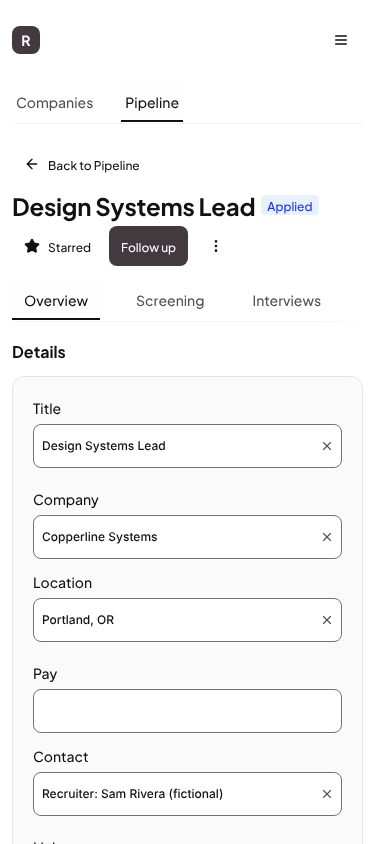
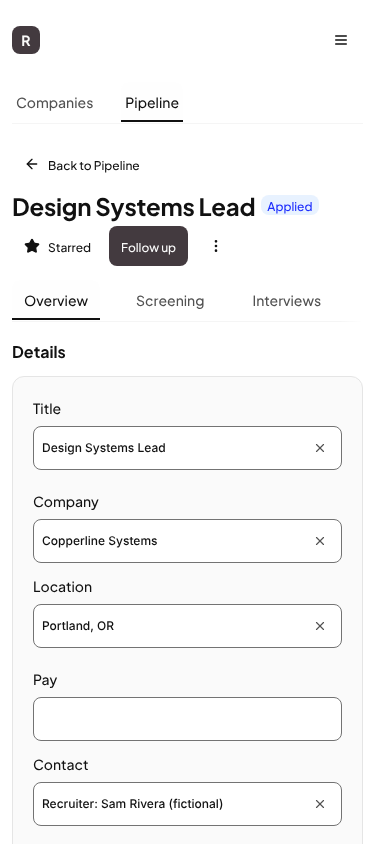
Case study: re-shoot on main 3e1b05b; Documents, retired stand-ins (#259)
Re-shot all 16 case-study PNGs and the six redesign after-JPGs on the merged
tree (HDS 0.26.2). 05-templates becomes 05-documents (the Documents editor),
and 06-account-menu shows the current Menu. The redesign doc now says
Documents, moves hds#652 and hds#654 into the shipped-in-0.26 sentence, lists
the EmptyState icon slot and Text weight (hds#825), and marks NavList merged
(hds#832).

Claude-Session: https://claude.ai/code/session_01HmxZvdUm7AT9okWzn27A9k

diff --git a/docs/redesign-2026.md b/docs/redesign-2026.md
@@ -35,11 +35,12 @@ store, sync, route or CSP changes in the polish pass. Verification is local; no 
 Living with round 1 showed that four tabs was one decision too many before any work started, and
 that Today and the Pipeline answered the same question ("what do I do next?") in two places.
 
-- Two tabs, **Companies** and **Pipeline**. Companies is home; Templates left the tab bar and opens
-  from the Apply sheet and the Menu.
+- Two tabs, **Companies** and **Pipeline**. Companies is home; Templates left the tab bar. It has
+  since become **Documents** (#227), which opens from the Apply sheet's Edit documents link and the
+  Menu.
 - **Today is gone.** Its follow-ups and next 7 days head the Pipeline, under To apply, so the one
   list a person returns to holds every next step. `#/today` redirects.
-- **Flat rows, not cards.** Agenda sections, phone job rows, company lists, Templates and loading
+- **Flat rows, not cards.** Agenda sections, phone job rows, company lists, the Documents list and loading
   skeletons are rows on the page with hairlines between them. Cards stay only where they hold a form
   or a choice (job details, onboarding picks).
 - **Rhythm from Stack gaps, never margins:** 24 under a heading, 48 between sections.
@@ -50,7 +51,8 @@ that Today and the Pipeline answered the same question ("what do I do next?") in
 
 ## Before and after
 
-Before is the 2026-10-13 audit; after is `main` at the calm list, fictional sample data. The full
+Before is the 2026-10-13 audit; after is `main` at `3e1b05b` (the calm list on HDS 0.26.2),
+fictional sample data. The full
 set (about 100 shots, light and dark, 1440 and 390) comes from `npm run gallery`.
 
 | | Before | After |
@@ -70,7 +72,9 @@ New in round 2:
 
 Every place HDS fell short has a stand-in in `src/hds-gaps/` or `src/theme/base.css` that names
 its ask and is deleted when HDS ships the fix. Shipped in HDS 0.26 and retired in the app: the `Text`
-tone prop (hds#655), the active-tab underline (hds#749) and the TabsList overflow cue (hds#723).
+tone prop (hds#655), the active-tab underline (hds#749), the TabsList overflow cue (hds#723), a base
+breakpoint in `sx` that replaced the nested `&` override (hds#652) and the `EmptyState` action slot
+(hds#654).
 Merged upstream and waiting on the next HDS release: Toast actions (hds#816), `AsyncState`
 (hds#831), the Menu height cap and danger tone (hds#834) and the dark pressed-accent contrast
 (hds#748; the app holds a 3.0:1 floor until then).
@@ -79,7 +83,7 @@ Merged upstream and waiting on the next HDS release: Toast actions (hds#816), `A
 |---|---|---|
 | `ActionToast` | Toast with action buttons (Open, Undo) | Toast `actions` (merged, hds#816) |
 | `AsyncState` | One component for loading, error with Retry, empty, ready | `AsyncState` pattern (merged, hds#831) |
-| `RailList` | A list of links with one marked current | `NavList` (hds#832) |
+| `RailList` | A list of links with one marked current | `NavList` (merged, hds#832) |
 | `TokenTextarea` | A text field whose `[Variable]` tokens are atomic chips | `TokenField` (hds#826) |
 | `TabsOverflowFade` | An edge cue on overflowing SegmentedControl; keep the selected tab in view | hds#823 (Tabs fade shipped, hds#723) |
 | `useBreakpoint` | A hook to read an HDS breakpoint in JS | `useAtLeast` / `useBreakpoint` (hds#824) |
@@ -87,8 +91,8 @@ Merged upstream and waiting on the next HDS release: Toast actions (hds#816), `A
 | `barePanel` | A bare `TabsContent` for top-level navigation | `TabsContent variant="bare"` (hds#833) |
 | `tone.SECONDARY` | A secondary tone for plain spans; a danger tone on `Menu.Item` | `Text` tone shipped (hds#655); Menu danger merged (hds#834) |
 | `base.css` 40px controls | A touch size for small controls on coarse pointers | hds#750 |
-| nested `&` in `sx` | A base breakpoint in `sx` | hds#652 |
-| `EmptyState.tsx` | An action slot on `EmptyState` | hds#654 |
+| `EmptyState.tsx` | An icon slot on `EmptyState` (the action slot shipped) | hds#825 |
+| `.rjb-semibold` in `base.css` | A `weight` prop on `Text` | hds#825 |
 
 ## Measurements
 
@@ -99,5 +103,5 @@ Merged upstream and waiting on the next HDS release: Toast actions (hds#816), `A
   and 390 (`e2e/a11y.spec.ts`).
 - Phone touch targets under 40px: 120+ on the first run, 0 now.
 - Bundle (gzip, `npm run build`, 2026-10-20, HDS 0.26.2): about 84 kB index, 46 kB react,
-  140 kB vendor, 57 kB supabase and 22 kB vendor CSS. Discover, Companies and Live postings are lazy
-  chunks of 7 to 9 kB each.
+  140 kB vendor, 57 kB supabase and 22 kB vendor CSS. Discover, Documents, Companies and Live postings
+  are lazy chunks of 6 to 9 kB each.

diff --git a/docs/case-study/README.md b/docs/case-study/README.md
@@ -1,17 +1,17 @@
 # Roleforge screenshots for the HDS case study (#199)
 
 PNGs at 1440 and 390 px wide (`NN-name-1440.png`, `NN-name-390.png`), fictional sample data only.
-Taken on `main` at `76da544` (the calm list layout, #234), 2026-10-20. Story and decisions:
+Taken on `main` at `3e1b05b` (the calm list layout, #234, on HDS 0.26.2), 2026-10-20. Story and decisions:
 [`docs/redesign-2026.md`](../redesign-2026.md).
 
 | Shot | What it shows | HDS features |
 | --- | --- | --- |
 | 01-companies | Companies (home): the track, tools, dream companies, open roles by company | Combobox, Popover, SegmentedControl, Toggle, Disclosure, flat rows |
 | 02-pipeline | Pipeline: To apply, Follow up, Next 7 days, then the jobs (table at 1440, rows at 390) | Table with sortable headers, Badge, Menu, Button tones, Stack rhythm |
-| 03-job-page | A job in edit: details form, tabs, rail of other jobs at 1440 | Tabs, Card, Input, Sidebar, Badge, Menu |
+| 03-job-page | A job in edit: details form with 0.26 field sizing, tabs, rail of other jobs at 1440 | Tabs, Card, Input, Sidebar, Badge, Menu |
 | 04-apply-mode | Apply mode: open, mark applied, skip, and every template filled for the job | Button hierarchy, copy rows, Disclosure |
-| 05-templates | A template: variable chips, preview filled from a job | Sidebar list, Tabs, Select, token chips |
-| 06-account-menu | The Menu: account, data, display | Menu, Button |
+| 05-documents | The Documents editor: a cover letter's title and text, Save, version history | Input, Textarea, Button, Menu, Disclosure |
+| 06-account-menu | The Menu: sync status, Documents, back up, restore, export, theme, spacing, feedback, privacy and terms | Menu, Button |
 | 07-pipeline-dark | The Pipeline in dark mode (pair with 02) | Same components, dark token set via `data-theme` |
 | 08-apply-mode-dark | Apply mode in dark mode (pair with 04) | Primary button and copy rows on dark surfaces |
 
